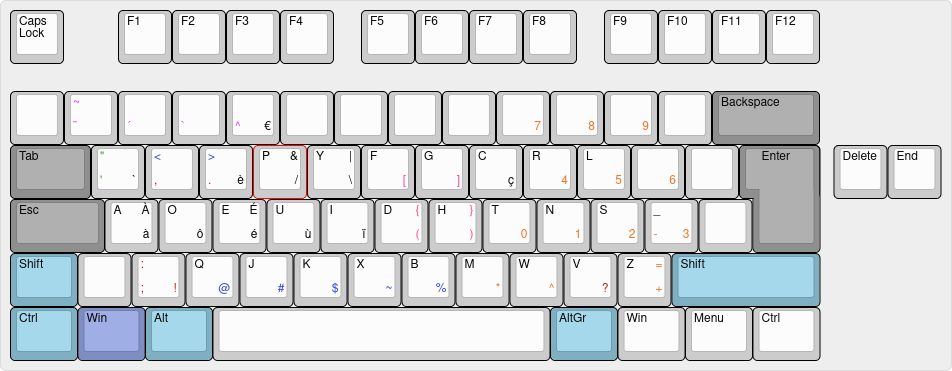
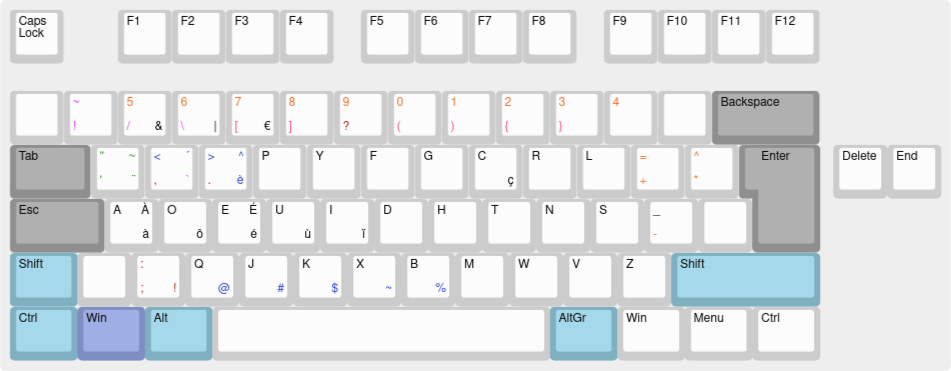
changed my kbd layout to use less Alt key

diff --git a/README.md b/README.md
@@ -45,4 +45,4 @@ Here is my layout :
 2. For those that wants to try a global installation (need root privileges) :
    [Tony Aldon's keyboard layout](https://github.com/tonyaldon/keyboard-layout)
 3. A link to the website I used to generate my layout's png :
-   [My layout on keyboard-layout-editor.com](http://www.keyboard-layout-editor.com/##@@=Caps%20Lock&_x:1%3B&=F1&=F2&=F3&=F4&_x:0.5%3B&=F5&=F6&=F7&=F8&_x:0.5%3B&=F9&=F10&=F11&=F12%3B&@_y:0.5&a:7%3B&=&_t=%23c300d9%0A%23c300d9&a:4%3B&=~%0A%C2%A8&_t=%23000000%0A%23c300d9%3B&=%0A%C2%B4&=%0A%60&=%0A%5E%0A%0A%E2%82%AC&_t=%23000000&a:7%3B&=&=&=&=&_t=%23000000%0A%0A%0A%23cf5900&a:4%3B&=%0A%0A%0A7&=%0A%0A%0A8&=%0A%0A%0A9&_t=%23000000&a:7%3B&=&_c=%238f8f8f&a:4&w:2%3B&=Backspace%3B&@_w:1.5%3B&=Tab&_c=%23cccccc&t=%23138709%0A%23138709%0A%23138709%3B&=%22%0A'%0A%0A%60&_t=%231138c2%0A%239e0d0d%3B&=%3C%0A,&=%3E%0A.%0A%0A%C3%A8&_t=%23000000%3B&=P%0A%0A%2F&%0A%2F%2F&=Y%0A%0A%7C%0A%5C&_t=%23000000%0A%0A%0A%23ff007a%3B&=F%0A%0A%0A%5B&=G%0A%0A%0A%5D&_t=%23000000%3B&=C%0A%0A%0A%C3%A7&_t=%23000000%0A%0A%0A%23cf5900%3B&=R%0A%0A%0A4&=L%0A%0A%0A5&=%0A%0A%0A6&_t=%23000000&a:7%3B&=&_x:0.25&c=%238f8f8f&a:4&w:1.25&h:2&w2:1.5&h2:1&x2:-0.25%3B&=Enter&_x:0.25&c=%23cccccc%3B&=Delete&=End%3B&@_c=%238f8f8f&w:1.75%3B&=Esc&_c=%23cccccc%3B&=A%0A%0A%C3%80%0A%C3%A0&=O%0A%0A%0A%C3%B4&=E%0A%0A%C3%89%0A%C3%A9&=U%0A%0A%0A%C3%B9&=I%0A%0A%0A%C3%AF&_t=%23000000%0A%0A%23ff007a%0A%23ff007a%3B&=D%0A%0A%7B%0A(&=H%0A%0A%7D%0A)&_t=%23000000%0A%0A%0A%23cf5900%3B&=T%0A%0A%0A0&=N%0A%0A%0A1&=S%0A%0A%0A2&_t=%23000000%0A%23cf5900%0A%0A%23cf5900%3B&=%2F_%0A-%0A%0A3&_t=%23000000&a:7%3B&=%3B&@_c=%237eb0c2&a:4&w:1.25%3B&=Shift&_c=%23cccccc&a:7%3B&=&_t=%239e0d0d%0A%239e0d0d%0A%0A%239e0d0d&a:4%3B&=%2F:%0A%2F%3B%0A%0A!&_t=%23000000%0A%0A%0A%231138c2%3B&=Q%0A%0A%0A%2F@&=J%0A%0A%0A%23&=K%0A%0A%0A$&=X%0A%0A%0A~&=B%0A%0A%0A%25&_t=%23000000%0A%0A%0A%23cf5900%3B&=M%0A%0A%0A*&=W%0A%0A%0A%5E&_t=%23000000%0A%0A%0A%239e0d0d%3B&=V%0A%0A%0A%3F&_t=%23000000%0A%0A%23cf5900%0A%23cf5900%3B&=Z%0A%0A%2F=%0A+&_c=%237eb0c2&t=%23000000&w:2.75%3B&=Shift%3B&@_w:1.25%3B&=Ctrl&_c=%237e8dc2&w:1.25%3B&=Win&_c=%237eb0c2&w:1.25%3B&=Alt&_c=%23cccccc&a:7&w:6.25%3B&=&_c=%237eb0c2&a:4&w:1.25%3B&=AltGr&_c=%23cccccc&w:1.25%3B&=Win&_w:1.25%3B&=Menu&_w:1.25%3B&=Ctrl)
+   [My layout on keyboard-layout-editor.com](http://www.keyboard-layout-editor.com/##@@=Caps%20Lock&_x:1%3B&=F1&=F2&=F3&=F4&_x:0.5%3B&=F5&=F6&=F7&=F8&_x:0.5%3B&=F9&=F10&=F11&=F12%3B&@_y:0.5&a:7%3B&=&_t=%23c300d9&a:4%3B&=~%0A!&_t=%23cf5900%0A%23c300d9%3B&=5%0A%2F%2F%0A%0A%2F&&=6%0A%5C%0A%0A%7C&_t=%23cf5900%0A%23ff007a%3B&=7%0A%5B%0A%0A%E2%82%AC&=8%0A%5D&_t=%23cf5900%0A%239e0d0d%3B&=9%0A%3F&_t=%23cf5900%0A%23ff007a%3B&=0%0A(&=1%0A)&=2%0A%7B&_t=%23cf5900%0A%23ff007a%0A%0A%23cf5900%3B&=3%0A%7D&_t=%23cf5900%0A%0A%0A%23cf5900%3B&=4&_t=%23000000&a:7%3B&=&_c=%238f8f8f&a:4&w:2%3B&=Backspace%3B&@_w:1.5%3B&=Tab&_c=%23cccccc&t=%23138709%3B&=%22%0A'%0A~%0A%C2%A8&_t=%231138c2%0A%239e0d0d%0A%0A%23c300d9%3B&=%3C%0A,%0A%C2%B4%0A%60&_t=%231138c2%0A%239e0d0d%3B&=%3E%0A.%0A%5E%0A%C3%A8&_t=%23000000%3B&=P&=Y&_t=%23000000%0A%0A%0A%23ff007a%3B&=F&=G&_t=%23000000%3B&=C%0A%0A%0A%C3%A7&_t=%23000000%0A%0A%0A%23cf5900%3B&=R&=L&_t=%23cf5900%0A%23cf5900%0A%0A%23cf5900%3B&=%2F=%0A+&_t=%23cf5900%0A%23cf5900%3B&=%5E%0A*&_x:0.25&c=%238f8f8f&t=%23000000&w:1.25&h:2&w2:1.5&h2:1&x2:-0.25%3B&=Enter&_x:0.25&c=%23cccccc%3B&=Delete&=End%3B&@_c=%238f8f8f&w:1.75%3B&=Esc&_c=%23cccccc%3B&=A%0A%0A%C3%80%0A%C3%A0&=O%0A%0A%0A%C3%B4&=E%0A%0A%C3%89%0A%C3%A9&=U%0A%0A%0A%C3%B9&=I%0A%0A%0A%C3%AF&_t=%23000000%0A%0A%23ff007a%0A%23ff007a%3B&=D&=H&_t=%23000000%0A%0A%0A%23cf5900%3B&=T&=N&=S&_t=%23000000%0A%23cf5900%0A%0A%23cf5900%3B&=%2F_%0A-&_t=%23000000&a:7%3B&=%3B&@_c=%237eb0c2&a:4&w:1.25%3B&=Shift&_c=%23cccccc&a:7%3B&=&_t=%239e0d0d&a:4%3B&=%2F:%0A%2F%3B%0A%0A!&_t=%23000000%0A%0A%0A%231138c2%3B&=Q%0A%0A%0A%2F@&=J%0A%0A%0A%23&=K%0A%0A%0A$&=X%0A%0A%0A~&=B%0A%0A%0A%25&_t=%23000000%0A%0A%0A%23cf5900%3B&=M&=W&_t=%23000000%0A%0A%0A%239e0d0d%3B&=V&_t=%23000000%0A%0A%23cf5900%0A%23cf5900%3B&=Z&_c=%237eb0c2&t=%23000000&w:2.75%3B&=Shift%3B&@_w:1.25%3B&=Ctrl&_c=%237e8dc2&w:1.25%3B&=Win&_c=%237eb0c2&w:1.25%3B&=Alt&_c=%23cccccc&a:7&w:6.25%3B&=&_c=%237eb0c2&a:4&w:1.25%3B&=AltGr&_c=%23cccccc&w:1.25%3B&=Win&_w:1.25%3B&=Menu&_w:1.25%3B&=Ctrl)
